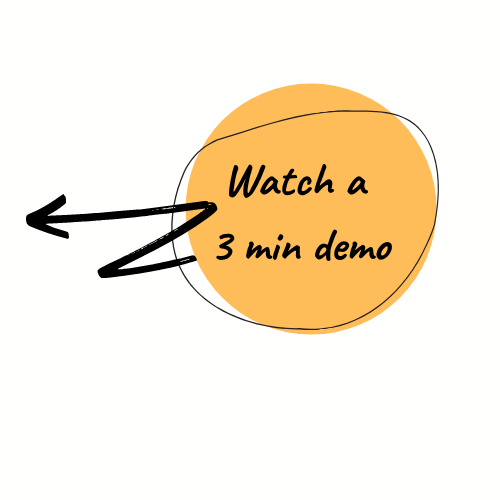
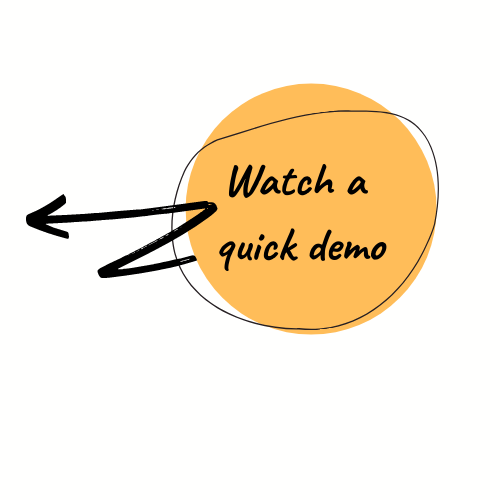
push changes.

Changed region(s): [[0.42, 0.45, 0.78, 0.54]]

diff --git a/home/public/css/home.css b/home/public/css/home.css
@@ -148,10 +148,8 @@ main header{
 
 .review p {
     font-size: 24px;
-    font-weight: bold;
     line-height: 1.25;
     color: black;
-    opacity: 0.7;
     font-family: Open Sans,Segoe UI,sans-serif;
 }
 ._cite {